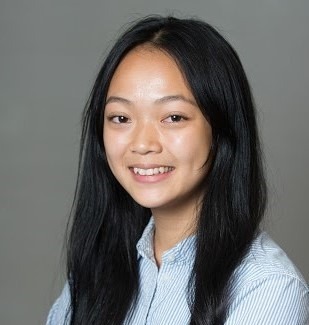
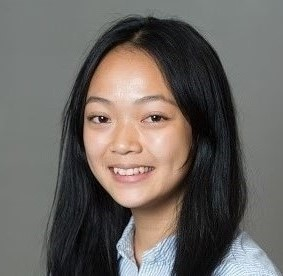
Fixed team profile picture sizes

diff --git a/src/components/Footer/Footer.css b/src/components/Footer/Footer.css
@@ -96,7 +96,7 @@
     padding: 10px 20px;
   }
 
-  SubscribeButton {
+  .SubscribeButton {
     transform: translateX(100px);
   }
 }
